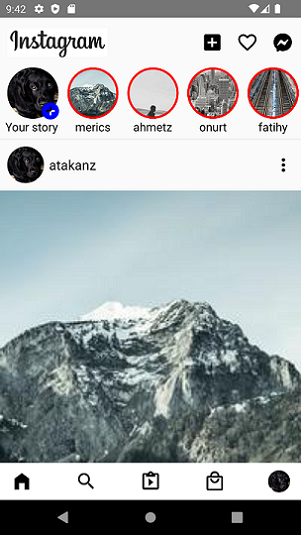
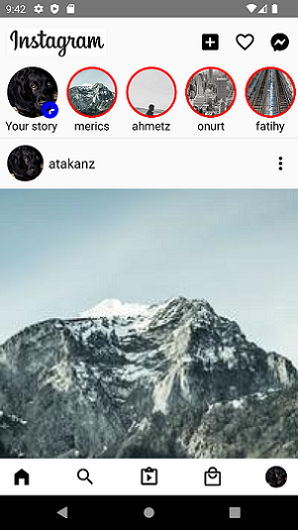
readme added.

diff --git a/instagramApp/src/App.js b/instagramApp/src/App.js
@@ -9,7 +9,7 @@ import {
   FlatList,
 } from 'react-native';
 // import post_data from './post_data.json';
-import Story from './components/Storyline';
+import Story from './components/Story';
 import post_data from './post_data.json';
 import Icon from 'react-native-vector-icons/MaterialCommunityIcons';
 import Postcard from './components/Posts';
@@ -82,15 +82,15 @@ const App = () => {
         />
       </View>
       <View style={styles.footer}>
-              <View>{home}</View>
-              <View>{search}</View>
-              <View>{play}</View>
-              <View>{shop}</View>
-              <Image
-                style={styles.footerPhoto}
-                source={{uri: 'https://picsum.photos/id/237/200/300'}}
-              />
-            </View>
+        <View>{home}</View>
+        <View>{search}</View>
+        <View>{play}</View>
+        <View>{shop}</View>
+        <Image
+          style={styles.footerPhoto}
+          source={{uri: 'https://picsum.photos/id/237/200/300'}}
+        />
+      </View>
     </SafeAreaView>
   );
 };

diff --git a/instagramApp/src/components/Story/story.js b/instagramApp/src/components/Story/story.js
@@ -1,0 +1,19 @@
+import React from 'react';
+import {View, Image, Text} from 'react-native';
+import styles from './story_style';
+const Story = props => {
+  return (
+    <View>
+      <Image 
+        style={[(
+          props.name === 'Your story')
+            ? styles.your_story
+            : styles.friends_stories
+        ]}
+        source={{uri: props.link}}
+      />
+      <Text style={styles.story_name}>{props.name}</Text>
+    </View>
+  );
+}
+export default Story;

diff --git a/instagramApp/src/components/Story/story_style.js b/instagramApp/src/components/Story/story_style.js
@@ -1,0 +1,24 @@
+import {StyleSheet} from 'react-native';
+export default StyleSheet.create({
+  friends_stories: {
+    width: 70,
+    height: 70,
+    borderRadius: 50,
+    borderColor: 'red',
+    borderWidth: 3,
+    marginHorizontal: 6,
+  },
+  your_story: {
+    width: 70,
+    height: 70,
+    borderRadius: 50,
+    marginLeft: 10,
+    marginRight:6,
+  },
+  story_name: {
+    fontSize: 16,
+    textAlign: 'center',
+    color: 'black',
+    marginBottom: 6,
+  },
+});

diff --git a/instagramApp/src/components/Posts/posts.js b/instagramApp/src/components/Posts/posts.js
@@ -1,5 +1,5 @@
-import React from "react";
-import {View, Image, Text} from "react-native";
+import React from 'react';
+import {View, Image, Text} from 'react-native';
 import styles from './posts.style'
 import Icon from 'react-native-vector-icons/MaterialCommunityIcons';
 import Icons from 'react-native-vector-icons/FontAwesome';

diff --git a/instagramApp/src/components/Posts/posts.style.js b/instagramApp/src/components/Posts/posts.style.js
@@ -1,4 +1,4 @@
-import {StyleSheet, Dimensions} from "react-native";
+import {StyleSheet, Dimensions} from 'react-native';
 export default StyleSheet.create({
   directionEnabled: {
     flex: 1,

diff --git a/instagramApp/src/components/Story/index.js b/instagramApp/src/components/Story/index.js
@@ -1,0 +1,1 @@
+export {default} from './story';

diff --git a/readme_project.md b/readme_project.md
@@ -6,7 +6,7 @@ The data for the story and post sections are available in .json format in the /s
 1) Navbar: The logo is at the beginning, and the icons are at the end with (marginLeft:auto). 
 2) Story: Horizontal scrollview, conditional styling (props.name===Your story ? styles.noBorder:styles.redBorder), header component of FlatList
 3) Posts: FlatList, The data is read from a json file and sent to a custom component file as an item with props. 
-4) Footer: is set to sticky with absolute-position and bottom:0. 
+4) Footer: is set to sticky with absolute position and bottom:0. 
 
 
 ![ScreenShot](instagramApp1.png)
